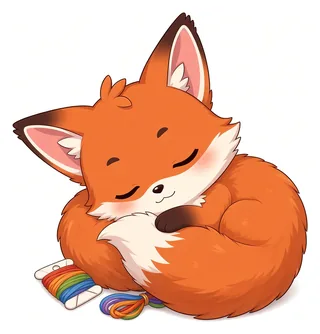
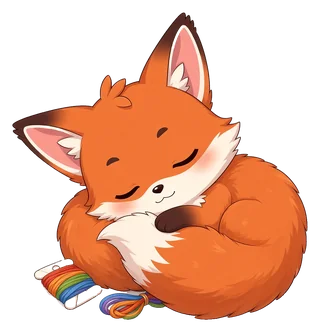
1.4 (dev): transparent Pip art (13 poses, WebP+PNG alpha, no JPG), no white tile; new poses thinking/pointing/peeking/neutral/greeting-alt with real triggers; tests
(cherry picked from commit 14b4f67aedf3b7e0f3267bbbafabe34fea3f8a5d)

diff --git a/index.html b/index.html
@@ -78,7 +78,7 @@ mark.badline{background:#FBE3DA;color:var(--ink);border-radius:4px;padding:0 4px
 /* Pip companion */
 .herogrid{display:grid;gap:var(--s3)}
 .pip{display:grid;grid-template-columns:84px minmax(0,1fr);grid-template-areas:"fig msg" "tog msg";grid-template-rows:118px 44px;column-gap:var(--s3);row-gap:0}
-.pipfig{grid-area:fig;width:84px;height:118px;background:#fff;border:1px solid var(--line);border-radius:var(--r-m,14px);display:flex;align-items:center;justify-content:center;overflow:hidden}
+.pipfig{grid-area:fig;width:84px;height:118px;background:transparent;border:1px solid transparent;border-radius:var(--r-m,14px);display:flex;align-items:center;justify-content:center;overflow:hidden}
 .piphi{all:unset;display:block;width:100%;height:100%;cursor:pointer;border-radius:inherit}.piphi:focus-visible{outline:3px solid var(--sage-ink);outline-offset:-3px}.pipbubble.quiet{visibility:hidden}
 .pipfig img{width:100%;height:100%;object-fit:contain;padding:4px;display:block}
 .pipbubble{grid-area:msg;align-self:center;position:relative;margin:0;background:#fff;color:var(--ink);border:1px solid var(--line);border-radius:16px;padding:9px 13px;font-size:.92rem;line-height:1.38}
@@ -178,7 +178,9 @@ code{font-family:var(--mono);font-size:.9em;background:var(--surface-2);border-r
 .tourcard .tstep{font-size:.8rem;font-weight:700;color:var(--sage-ink);margin:0 0 2px}.tourcard .row{grid-column:1/-1;margin:4px 0 0;flex-wrap:wrap;gap:8px}.tourcard .row button{min-height:44px}
 .tourcard.invite{margin:0 0 var(--s2);padding:10px 12px;gap:6px 10px}.tourcard.invite .tmsg{margin:0;font-weight:650}.tourcard.invite .row{margin:0;flex-wrap:nowrap;gap:6px}.tourcard.invite .row button{padding:0 12px;font-size:.9rem;white-space:nowrap}@media(max-width:360px){#tourInvite .row button{padding:0 8px;font-size:.8rem;min-width:0}#tourInvite .row .ghost{padding:0 4px}.tourcard.invite{grid-template-columns:40px minmax(0,1fr)}.tourcard.invite .tpip{width:40px;height:54px}}.pip.inviting{display:none!important}
 .tour-target{outline:3px solid #c8642f!important;outline-offset:3px;box-shadow:0 0 0 7px rgba(200,100,47,.16);border-radius:10px}
-.askpip .atopics{display:flex;flex-wrap:wrap;gap:8px;margin:8px 0}.askpip .atopics button{min-height:44px}.askpip .ahead{display:flex;gap:10px;align-items:flex-start}.askpip .ahead img{width:44px;height:60px;object-fit:contain;flex:none}.askpip h2{font-size:1.05rem;margin:0}.askpip h2::before{content:none}.askpip .aans{background:var(--sage-50,#EEF3EE);border-radius:12px;padding:8px 12px;margin:6px 0}.hintpref{display:inline-flex;gap:8px;align-items:center;min-height:44px}.hintpref input{width:20px;height:20px}
+.askpip .atopics{display:flex;flex-wrap:wrap;gap:8px;margin:8px 0}.askpip .atopics button{min-height:44px}.askpip .ahead{display:flex;gap:10px;align-items:flex-start}.askpip{position:relative}.askpip .ahead img{width:44px;height:60px;object-fit:contain;flex:none}.askpip .apeek{display:none}
+@media(max-width:879px){.askpip{padding-right:62px;overflow:hidden}.askpip .ahead.peek>picture{display:none}.askpip .apeek{display:block;position:absolute;right:0;top:10px;width:52px;height:72px;pointer-events:none}.askpip .apeek img{width:100%;height:100%;object-fit:contain;object-position:right center;display:block}.askpipbtn img{object-position:right center}}
+.tourcard .tpip.mirror{transform:scaleX(-1)}.rpip{width:40px;height:56px;object-fit:contain;float:left;margin:0 10px 4px 0}.askpip h2{font-size:1.05rem;margin:0}.askpip h2::before{content:none}.askpip .aans{background:var(--sage-50,#EEF3EE);border-radius:12px;padding:8px 12px;margin:6px 0}.hintpref{display:inline-flex;gap:8px;align-items:center;min-height:44px}.hintpref input{width:20px;height:20px}
 @media (max-width:420px){.askpipbtn{padding:0 10px 0 4px}.tourcard{grid-template-columns:44px minmax(0,1fr);padding:10px 12px}.tourcard .tpip{width:44px;height:60px}}
 .psum .headline{position:relative;font-size:1.25rem;font-weight:800;margin:0 0 var(--s2);display:flex;align-items:center;gap:var(--s2)}
 .psum[data-ready=true]{background:var(--ok-bg);border-color:var(--ok-line)}
@@ -239,7 +241,7 @@ code{font-family:var(--mono);font-size:.9em;background:var(--surface-2);border-r
 @media print{.tabs,#helpView{display:none!important}.psum{box-shadow:none;border:1px solid #000}.tcard,.scard{break-inside:avoid}}
 </style>
 </head><body><div class="devbanner" role="note" style="background:#3d5a45;color:#fff;text-align:center;font:600 .85rem/1.4 system-ui,sans-serif;padding:6px 10px">Preview build — not the live site. Projects saved here are kept apart from the live site. <a href="https://therealtenkoshi2020.github.io/floss-fox/" style="color:#fff">Go to the live site</a></div><div class="wrap">
-<header><svg class="logo" viewBox="0 0 64 64" role="img" aria-label="Floss Fox logo"><path d="M10 8l14 14h16L54 8l-2 26-20 24L12 34z" fill="#c8642f"/><path d="M14 13l9 10-7 6zM50 13l-9 10 7 6z" fill="#7a3a22"/><path d="M12 34l20 24 20-24-12 2-8 10-8-10z" fill="#fbf3e6"/><circle cx="24" cy="31" r="2.6" fill="#3b2f28"/><circle cx="40" cy="31" r="2.6" fill="#3b2f28"/><path d="M29 47h6l-3 4z" fill="#3b2f28"/><path d="M4 60c10-6 18-2 28-6s18 0 28-4" stroke="#5f7a5c" stroke-width="2.5" fill="none" stroke-linecap="round" stroke-dasharray="5 4"/></svg><div class="t"><p class="brand" id="appname"></p><p class="tagline">Thread lists for cross stitch</p></div><button type="button" class="askpipbtn noprint" id="askPipBtn" aria-expanded="false" aria-controls="askPip"><img src="assets/pip/pip-curious-160.jpg" width="160" height="215" alt="" decoding="async"> Ask Pip</button></header>
+<header><svg class="logo" viewBox="0 0 64 64" role="img" aria-label="Floss Fox logo"><path d="M10 8l14 14h16L54 8l-2 26-20 24L12 34z" fill="#c8642f"/><path d="M14 13l9 10-7 6zM50 13l-9 10 7 6z" fill="#7a3a22"/><path d="M12 34l20 24 20-24-12 2-8 10-8-10z" fill="#fbf3e6"/><circle cx="24" cy="31" r="2.6" fill="#3b2f28"/><circle cx="40" cy="31" r="2.6" fill="#3b2f28"/><path d="M29 47h6l-3 4z" fill="#3b2f28"/><path d="M4 60c10-6 18-2 28-6s18 0 28-4" stroke="#5f7a5c" stroke-width="2.5" fill="none" stroke-linecap="round" stroke-dasharray="5 4"/></svg><div class="t"><p class="brand" id="appname"></p><p class="tagline">Thread lists for cross stitch</p></div><button type="button" class="askpipbtn noprint" id="askPipBtn" aria-expanded="false" aria-controls="askPip"><picture><source media="(max-width:879px)" type="image/webp" srcset="assets/pip/pip-peeking-160.webp"><source media="(max-width:879px)" srcset="assets/pip/pip-peeking-160.png"><source type="image/webp" srcset="assets/pip/pip-curious-160.webp"><img src="assets/pip/pip-curious-160.png" width="160" height="214" alt="" decoding="async"></picture> Ask Pip</button></header>
 <nav class="tabs noprint" aria-label="Main"><button type="button" id="tabConvert" aria-pressed="true" aria-current="page"><span aria-hidden="true">🧵</span> Add colors</button><button type="button" id="tabProjects" aria-pressed="false"><span aria-hidden="true">📁</span> My projects <span id="projCount"></span></button><button type="button" id="tabHelp" aria-pressed="false"><span aria-hidden="true">💬</span> Help</button></nav>
 <section id="askPip" class="askpip noprint" hidden aria-labelledby="askPipH"></section>
 <div id="tourLive" class="sr" aria-live="polite"></div>
@@ -248,7 +250,7 @@ code{font-family:var(--mono);font-size:.9em;background:var(--surface-2);border-r
 <h1 id="heroH">Your thread list, made simple.</h1>
 <p class="lead">Paste your DMC colors, see what you need, and make a shopping list in seconds.</p>
 <ol class="steps" aria-label="How it works"><li><span class="num" aria-hidden="true">1</span> Add your colors</li><li><span class="num" aria-hidden="true">2</span> Check what you have</li><li><span class="num" aria-hidden="true">3</span> Get your shopping list</li></ol>
-<div class="herogrid"><aside id="pip" class="pip" aria-label="Pip, your helper"><div class="pipfig" id="pipFig"><button type="button" class="piphi" id="pipHi" aria-label="Say hi to Pip"><picture><source id="pipSrc" type="image/webp" srcset="assets/pip/pip-greeting-160.webp 160w, assets/pip/pip-greeting-320.webp 320w, assets/pip/pip-greeting-480.webp 480w" sizes="(min-width:880px) 170px, 84px"><img id="pipImg" data-art="greeting" src="assets/pip/pip-greeting-320.jpg" srcset="assets/pip/pip-greeting-160.jpg 160w, assets/pip/pip-greeting-320.jpg 320w, assets/pip/pip-greeting-480.jpg 480w" sizes="(min-width:880px) 170px, 84px" width="320" height="465" alt="" decoding="async"></picture></button></div><p class="pipbubble" id="pipMsg"></p><button class="piptog" id="pipToggle" type="button" aria-controls="pipFig pipMsg" aria-expanded="true">Hide Pip</button></aside><div class="heromain">
+<div class="herogrid"><aside id="pip" class="pip" aria-label="Pip, your helper"><div class="pipfig" id="pipFig"><button type="button" class="piphi" id="pipHi" aria-label="Say hi to Pip"><picture><source id="pipSrc" type="image/webp" srcset="assets/pip/pip-greeting-160.webp 160w, assets/pip/pip-greeting-320.webp 320w, assets/pip/pip-greeting-480.webp 480w" sizes="(min-width:880px) 170px, 84px"><img id="pipImg" data-art="greeting" src="assets/pip/pip-greeting-320.png" srcset="assets/pip/pip-greeting-160.png 160w, assets/pip/pip-greeting-320.png 320w, assets/pip/pip-greeting-480.png 480w" sizes="(min-width:880px) 170px, 84px" width="320" height="465" alt="" decoding="async"></picture></button></div><p class="pipbubble" id="pipMsg"></p><button class="piptog" id="pipToggle" type="button" aria-controls="pipFig pipMsg" aria-expanded="true">Hide Pip</button></aside><div class="heromain">
 <div id="exampleBanner" class="banner" role="status" hidden><span><b>You're trying an example.</b> These colors are a sample, not your thread. Nothing is saved unless you choose to.</span> <button type="button" class="sec small" id="exitExample">Back to my list</button></div>
 <label for="inp" class="biglabel">Paste your DMC color list</label>
 <textarea id="inp" placeholder="310, 321, 666, 823" aria-describedby="inpHint"></textarea>

diff --git a/pip.js b/pip.js
@@ -1,10 +1,13 @@
 /* Pip, the Floss Fox companion. Deterministic: reads the converter's existing parse result. No network, no AI. */
 (()=>{'use strict';
 const PIP_KEY='flossfox-dev.pip.v1'; // DEV PREVIEW ONLY           // stores only "shown"/"hidden"
+// Returning visitor = the tour was already completed or dismissed (tour.js pref). Read-only here.
+const returning=(()=>{try{const t=JSON.parse(localStorage.getItem(PIP_KEY.replace(/\.pip\.v1$/,'.tour.v1'))||'null');return !!t&&(t.status==='done'||t.status==='dismissed')}catch(e){return false}})();
 const SIZES=[160,320,480];
-// Poses that have real artwork. Poses without art fall back to an existing one; 'thinking' has no art and its state is never shown.
-const ART={greeting:'greeting',curious:'curious',puzzled:'puzzled',duplicates:'duplicates',helpful:'helpful',tangled:'tangled',celebrating:'celebrating',sleepy:'sleepy'};
-const FUTURE={thinking:'curious',proud:'greeting',peeking:'curious',teaching:'curious'};
+// Poses with real (transparent) artwork. 'thinking' is used only for real checks (Ask Pip answers, backup check); the 'processing' state stays unused (no fake delays).
+const ART={greeting:'greeting',curious:'curious',puzzled:'puzzled',duplicates:'duplicates',helpful:'helpful',tangled:'tangled',celebrating:'celebrating',sleepy:'sleepy',
+ thinking:'thinking',pointing:'pointing',peeking:'peeking',neutral:'neutral','greeting-alt':'greeting-alt'};
+const FUTURE={proud:'greeting',teaching:'curious'};
 const poseArt=p=>ART[p]||ART[FUTURE[p]]||'greeting';
 const short=t=>{t=String(t).replace(/\s+/g,' ').trim();return t.length>24?t.slice(0,23)+'…':t};
 function errMsg(r){if(r.errs.length>1)return`${r.errs.length} entries need a look. Check the highlighted lines below.`;const e=r.errs[0],x=short(e.t);
@@ -20,11 +23,13 @@ const TANGLE=["Oops! Got a little tangled up!","I meant to do that. Probably."];
    Base states come from the parse result; celebrating/tangled/sleepy are short overlays on top of a calm base. */
 const STATES={
  welcome:    {pose:'greeting',   pri:10, anim:'pop',   msg:()=>"Hi! I'm Pip. Let's get your threads sorted!"},
+ welcomeBack:{pose:'greeting-alt',pri:10,anim:'pop',   msg:()=>'Welcome back! Ready for another list?'},
+ idle:       {pose:'neutral',    pri:12, anim:'fade',  msg:()=>'Paste a list whenever you\'re ready.'},
  attentive:  {pose:'curious',    pri:20, anim:'tilt',  msg:()=>'Ready when you are!'},
  empty:      {pose:'curious',    pri:20, anim:'tilt',  msg:()=>'Add a few thread numbers to get started.'},
  listReady:  {pose:'curious',    pri:20, anim:'tilt',  msg:()=>"Your colors are ready! Let's see what you have."},
  helpful:    {pose:'helpful',    pri:25, anim:'pop',   msg:()=>{const a=alt();return a&&a.matched?`Look! I found ${a.brand} options for ${a.matched} of your ${plural(a.total,'color')}.`:''}},
- processing: {pose:'thinking',   pri:30, anim:'fade',  msg:()=>'Let me look at your list…'}, // reserved: no 'thinking' art and parsing is instant, so never shown
+ processing: {pose:'thinking',   pri:30, anim:'fade',  msg:()=>'Let me look at your list…'}, // reserved: parsing is instant, so never shown (no fake delays)
  celebrating:{pose:'celebrating',pri:35, anim:'cheer', msg:()=>'Yay! Your list is ready!'},
  duplicate:  {pose:'duplicates', pri:40, anim:'pop',   msg:r=>r.items.filter(i=>i.src.length>1).length===1?"Found a repeat! I've combined it for you.":"Found some repeats! I've combined them for you."},
  error:      {pose:'puzzled',    pri:50, anim:'tilt',  msg:errMsg},
@@ -35,27 +40,27 @@ const STATES={
  hintCompare:{pose:'helpful',    pri:22, anim:'pop',   msg:()=>{const n=window.FlossFoxAltFor?Math.max(FlossFoxAltFor('sullivans'),FlossFoxAltFor('anchor')):0;return n?'Want to compare another thread brand? Try "Brand to buy" in your shopping list.':''}}
 };
 const CALM=25; // overlays (tangled, sleepy) only sit on a base at or below this priority
-function stateFor(r,submitted){const c=['welcome'];
+function stateFor(r,submitted){const c=[greeted?'idle':returning?'welcomeBack':'welcome'];
  if(r.errs.length)c.push('error');if(r.items.some(i=>i.src.length>1))c.push('duplicate');
  if(r.items.length){c.push('listReady');const a=alt();if(a&&a.matched)c.push('helpful')}else if(submitted&&!r.errs.length)c.push('empty');
  return c.sort((a,b)=>STATES[b].pri-STATES[a].pri)[0]}
 const $=id=>document.getElementById(id);
 const el=$('pip');if(!el)return;
 const img=$('pipImg'),src=$('pipSrc'),msg=$('pipMsg'),fig=$('pipFig'),tog=$('pipToggle'),hi=$('pipHi');
-let touring=false,cur=null,base='welcome',lastR={items:[],errs:[]},over=null,overT=0,celebrated=false;
+let greeted=false,touring=false,cur=null,base='welcome',lastR={items:[],errs:[]},over=null,overT=0,celebrated=false;
 const T={celebrate:4000,tangle:2600,tangleGap:60000,idle:90000,minSleep:4000,throttle:1000};
 const set=(a,ext)=>SIZES.map(w=>`assets/pip/pip-${a}-${w}.${ext} ${w}w`).join(', ');
 function show(name,r,anim=true){const S=STATES[name];if(!S)return;if(r)lastR=r;const text=S.msg(lastR);
  if(cur===name&&msg.textContent===text)return; // nothing meaningful changed
  const a=poseArt(S.pose);cur=name;el.dataset.state=name;el.dataset.pose=a;
- if(img.dataset.art!==a){src.srcset=set(a,'webp');img.srcset=set(a,'jpg');img.src=`assets/pip/pip-${a}-320.jpg`;img.dataset.art=a}
+ if(img.dataset.art!==a){src.srcset=set(a,'webp');img.srcset=set(a,'png');img.src=`assets/pip/pip-${a}-320.png`;img.dataset.art=a}
  msg.textContent=text;msg.classList.toggle('quiet',!text);
  fig.classList.remove('pip-pop','pip-tilt','pip-fade','pip-cheer','pip-wiggle','pip-doze');if(anim){void fig.offsetWidth;fig.classList.add('pip-'+S.anim)}}
 const clearOver=()=>{clearTimeout(overT);over=null};
 function overlay(name,ms){clearOver();over=name;show(name);if(ms)overT=setTimeout(()=>{over=null;show(base,null,false)},ms)} // settle quietly: no new animation
 const quiet=()=>fig.hidden||document.hidden;
 // Called by the converter on every recalculation.
-function result(r,submitted){lastR=r;base=stateFor(r,submitted);
+function result(r,submitted){greeted=true;lastR=r;base=stateFor(r,submitted);
  if(STATES[base].pri>STATES.celebrating.pri)clearOver();          // errors/duplicates interrupt anything
  else if(over==='sleepy'||over==='tangled'||(over&&over.startsWith('hint')))clearOver();            // real input ends play and sleep
  const ex=typeof window.isExample==='function'&&window.isExample();
@@ -76,7 +81,7 @@ function arm(){clearTimeout(idleT);if(document.hidden||over==='sleepy')return;id
 function sleep(){if(touring||quiet()||over||STATES[base].pri>CALM)return arm();sleptAt=performance.now();overlay('sleepy',0)}
 function wake(){if(over!=='sleepy')return;const left=T.minSleep-(performance.now()-sleptAt);
  if(left>0){clearTimeout(overT);overT=setTimeout(wake,left);return}
- clearOver();show(base==='welcome'?'attentive':base,null,false);fig.classList.add('pip-fade');arm()}
+ clearOver();show(['welcome','welcomeBack','idle'].includes(base)?'attentive':base,null,false);fig.classList.add('pip-fade');arm()}
 function activity(){const now=performance.now();if(over==='sleepy')return wake();if(now-lastAct<T.throttle)return;lastAct=now;arm()}
 ['pointerdown','pointermove','keydown','scroll','wheel','touchstart'].forEach(e=>window.addEventListener(e,activity,{passive:true,capture:true}));
 document.addEventListener('visibilitychange',()=>{if(document.hidden)clearTimeout(idleT);else arm()});
@@ -95,11 +100,13 @@ const api={result,show,stateFor,STATES,ART,FUTURE,current:()=>cur,base:()=>base,
  hint:n=>{const S=STATES[n];if(!S||touring||over||quiet()||STATES[base].pri>CALM||!S.msg(lastR))return false;overlay(n,9000);arm();return true},
  _timing:o=>{Object.assign(T,o);arm();return{...T}}};
 /* global state */
-if(typeof state!=='undefined'&&(state.items.length||state.errs.length)){lastR=state;base=stateFor(state,true);show(base,state)}else show('welcome');
-const warm=()=>{const w=img.currentSrc&&/-(\d+)\.(webp|jpg)/.exec(img.currentSrc);const size=w?w[1]:'320',ext=w?w[2]:'webp';
- Object.values(ART).forEach(a=>{if(a!=='greeting'){const i=new Image();i.decoding='async';i.src=`assets/pip/pip-${a}-${size}.${ext}`}})};
+if(typeof state!=='undefined'&&(state.items.length||state.errs.length)){lastR=state;base=stateFor(state,true);show(base,state)}else{base=stateFor({items:[],errs:[]},false);show(base)}
+const warm=()=>{const w=img.currentSrc&&/-(\d+)\.(webp|png)/.exec(img.currentSrc);const size=w?w[1]:'320',ext=w?w[2]:'webp';
+ Object.values(ART).forEach(a=>{if(a!=='greeting'&&!['peeking','pointing','thinking'].includes(a)){const i=new Image();i.decoding='async';i.src=`assets/pip/pip-${a}-${size}.${ext}`}})};
 window.addEventListener('load',()=>(window.requestIdleCallback||setTimeout)(warm,{timeout:3000}));
-const inp=$('inp');inp.addEventListener('focus',()=>{if(cur==='welcome'&&!inp.value.trim())show('attentive')});
+const inp=$('inp');inp.addEventListener('focus',()=>{if(['welcome','welcomeBack','idle'].includes(cur)&&!inp.value.trim())show('attentive')});
+// Leaving an empty box: settle to the calm idle companion (curious stays for focus/exploring).
+inp.addEventListener('blur',()=>{if(cur==='attentive'&&!inp.value.trim()&&!over){greeted=true;base='idle';show('idle')}});
 arm();
 window.FlossFoxPip=api;
 })();

diff --git a/tour.js b/tour.js
@@ -15,7 +15,7 @@ const st=()=>(typeof state!=='undefined'?state:{items:[],errs:[]}); /* global st
 const dupN=()=>st().items.filter(i=>i.src.length>1).length;
 const destV=()=>($('dest')||{}).value||'dmc';
 const BR={dmc:'DMC',sullivans:'Sullivans',anchor:'Anchor'};
-const pipImg=(pose,cls)=>`<picture><source type="image/webp" srcset="assets/pip/pip-${pose}-160.webp"><img class="${cls}" src="assets/pip/pip-${pose}-160.jpg" width="160" height="215" alt="" decoding="async"></picture>`;
+const pipImg=(pose,cls)=>`<picture><source type="image/webp" srcset="assets/pip/pip-${pose}-160.webp"><img class="${cls}" src="assets/pip/pip-${pose}-160.png" width="160" height="240" alt="" decoding="async"></picture>`;
 const plural=(n,w)=>`${n} ${w}${n===1?'':'s'}`;
 const TOUR_SAMPLE='310\n321\n666\n699';
 const linksOn=()=>!!(window.FlossFoxLinks&&FlossFoxLinks.enabled&&FlossFoxLinks.enabled());
@@ -25,7 +25,7 @@ const toConvert=()=>{if(!inView('convertView'))$('tabConvert').click()};
 /* ---------- Step configuration (single source of truth) ---------- */
 const STEPS=[
  {id:'enter',title:'Add your colors',target:()=>$('inp'),anchor:()=>document.querySelector('.hero .row'),
-  pose:()=>st().errs.length?'puzzled':'curious',
+  pose:()=>st().errs.length?'puzzled':'pointing',
   msg:()=>"First, pop your DMC thread numbers in here! You can type them or paste your whole list.",
   more:()=>st().errs.length?`${plural(st().errs.length,'line')} couldn't be read yet. They're listed in red under Your colors.`:st().items.length?`You've added ${plural(st().items.length,'color')}. Tap Next when you're ready.`:"Then tap Add my colors. Want to practise first? I can fill in a short sample list.",
   extra:()=>st().items.length?'':`<button type="button" class="sec" data-t="example">Try an example (310, 321, 666, 699)</button>`,
@@ -42,13 +42,13 @@ const STEPS=[
   ready:()=>!$('results').hidden,
   help:'Swatches show the DMC color on screen, which is only an approximation.'},
  {id:'brands',title:'Other thread brands',target:()=>$('shopcard').hidden?null:$('dest'),anchor:()=>document.querySelector('#shopcard .toggle'),
-  pose:()=>'helpful',
+  pose:()=>'pointing',
   msg:()=>"Did you know you can look at other thread brands too? Let's explore your options!",
   more:()=>`Use <b>Brand to buy</b> to switch between DMC, Sullivans and Anchor. Matches come from published conversion charts, so colors may not be exact. Compare real thread if it matters. The cost table shows rough price estimates for each brand, before shipping; prices change, so check the store.${destV()!=='dmc'?` You're looking at ${BR[destV()]} now: ${plural(window.FlossFoxAltFor?FlossFoxAltFor(destV()):0,'color')} of ${st().items.length} have a chart match.`:''}`,
   ready:()=>!$('shopcard').hidden,optional:true,
   help:'Metallic and variegated threads are never swapped automatically.'},
  {id:'shop',title:'Your shopping list',target:()=>$('shopcard').hidden?null:$('shop'),anchor:()=>$('shop'),
-  pose:()=>'helpful',
+  pose:()=>'pointing',
   msg:()=>"Now let's get your threads organized so they're easier to shop for!",
   more:()=>`Tick the boxes as you shop, or use <b>Print list</b> and <b>Copy as text</b> below. <b>Save project</b> keeps the list in this browser; in My projects you can mark what you have, open <b>Shop my list</b> in the store, and download a spreadsheet (CSV).${linksOn()?' Store links are optional affiliate links. You never need them to use Floss Fox.':''}`,
   ready:()=>!$('shopcard').hidden,
@@ -61,6 +61,9 @@ const STEPS=[
 ];
 
 /* ---------- Tour card ---------- */
+// Pointing Pip: his paw points to his left (screen right). Mirror him when the target's centre is to his left on screen.
+function aim(){if(!card||!tgt)return;const i=card.querySelector('.tpip');if(!i||card.dataset.pose!=='pointing')return;const a=i.getBoundingClientRect(),b=tgt.getBoundingClientRect();
+ const mir=(b.left+b.right)/2<(a.left+a.right)/2;i.classList.toggle('mirror',mir);card.dataset.mirror=mir}
 let idx=-1,card=null,tgt=null,returnFocus=null,readSince=0;
 const live=t=>{const l=$('tourLive');if(l){l.textContent='';setTimeout(()=>{l.textContent=t},30)}};
 function clearTarget(){if(tgt)tgt.classList.remove('tour-target');tgt=null}
@@ -71,12 +74,12 @@ function place(el,anchor,focus){const a=anchor&&anchor.isConnected&&anchor.offse
 function render(focus){const S=STEPS[idx];if(!S)return;toConvert();removeCard();
  const t=S.target();const missing=!t&&!S.final;const notReady=S.ready&&!S.ready();
  if(t){t.classList.add('tour-target');tgt=t}
- const c=document.createElement('section');c.className='tourcard noprint';c.id='tourCard';c.setAttribute('aria-labelledby','tourH');c.dataset.step=S.id;c.dataset.pose=S.pose();
+ const c=document.createElement('section');c.className='tourcard noprint';c.id='tourCard';c.setAttribute('aria-labelledby','tourH');c.dataset.step=S.id;let pose=S.pose();if(pose==='pointing'&&!t)pose='helpful';c.dataset.pose=pose;
  const back=idx>0?'<button type="button" class="ghost" data-t="back">Back</button>':'';
  const nextLbl=S.final?'':notReady||missing?(S.optional?'Skip this step':'Skip this step'):'Next';
  const btns=S.final?'<button type="button" class="pri" data-t="start">Start using Floss Fox</button><button type="button" class="sec" data-t="tips">Explore more tips</button>':`${S.extra?S.extra():''}<button type="button" class="pri" data-t="next">${nextLbl}</button>${back}<button type="button" class="ghost" data-t="skip">Skip tour</button>`;
- c.innerHTML=`${pipImg(S.pose(),'tpip')}<div><p class="tstep">Step ${idx+1} of ${STEPS.length}</p><h2 id="tourH" tabindex="-1">${esc(S.title)}</h2><p class="tmsg">${esc(S.msg())}</p><p class="tmore">${S.more()}</p>${missing&&!notReady?'<p class="tmore">I can\'t find that part of the page right now, so you can skip ahead.</p>':''}</div><div class="row">${btns}${S.final?back:''}<button type="button" class="ghost" data-t="close" aria-label="Close the tour">Close</button></div>`;
- card=c;place(c,t?S.anchor():null,focus);readSince=performance.now();
+ c.innerHTML=`${pipImg(pose,'tpip')}<div><p class="tstep">Step ${idx+1} of ${STEPS.length}</p><h2 id="tourH" tabindex="-1">${esc(S.title)}</h2><p class="tmsg">${esc(S.msg())}</p><p class="tmore">${S.more()}</p>${missing&&!notReady?'<p class="tmore">I can\'t find that part of the page right now, so you can skip ahead.</p>':''}</div><div class="row">${btns}${S.final?back:''}<button type="button" class="ghost" data-t="close" aria-label="Close the tour">Close</button></div>`;
+ card=c;place(c,t?S.anchor():null,focus);aim();readSince=performance.now();
  setTourPref({status:'active',step:idx});if(PIP())PIP().setTour(true)}
 function go(i,announce=true){idx=Math.max(0,Math.min(STEPS.length-1,i));render(true);if(announce)live(`Pip's tour, step ${idx+1} of ${STEPS.length}: ${STEPS[idx].title}`)}
 function start(){closeAsk(false);removeInvite();returnFocus=document.activeElement&&document.activeElement!==document.body?document.activeElement:$('askPipBtn');toConvert();go(0)}
@@ -92,7 +95,7 @@ document.addEventListener('keydown',e=>{if(e.key!=='Escape')return;if($('askPip'
 document.addEventListener('flossfox:result',e=>{if(idx<0)return;const S=STEPS[idx];
  if(S.id==='enter'&&S.done()&&e.detail.submitted&&!st().errs.length){go(1);return}
  const f=card&&card.contains(document.activeElement)?document.activeElement.dataset.t:null;render(false);if(f){const b=card.querySelector(`[data-t="${f}"]`);if(b)b.focus()}});
-window.addEventListener('resize',()=>{if(card&&tgt&&!tgt.isConnected)render(false)});
+window.addEventListener('resize',()=>{if(card&&tgt&&!tgt.isConnected)render(false);else aim()});
 
 /* ---------- First-visit invite / resume ---------- */
 let invite=null;
@@ -124,7 +127,7 @@ const TOPICS=[
  ['tour','Start the tour again','']];
 let lastTopic=null;
 function renderAsk(){const c=context();const a=TOPICS.find(t=>t[0]===lastTopic);
- ask.innerHTML=`<div class="ahead">${pipImg('helpful','')}<div><h2 id="askPipH" tabindex="-1">Ask Pip</h2><p class="actx" data-ctx="${c.key}">${esc(c.text)}</p></div></div>
+ ask.innerHTML=`${a?'':`<span class="apeek" aria-hidden="true">${pipImg('peeking','')}</span>`}<div class="ahead${a?'':' peek'}" data-pose="${a?'thinking':'helpful'}">${pipImg(a?'thinking':'helpful','')}<div><h2 id="askPipH" tabindex="-1">Ask Pip</h2><p class="actx" data-ctx="${c.key}">${esc(c.text)}</p></div></div>
  ${idx>=0?'<div class="row"><button type="button" class="pri" data-a="resume">Back to the tour</button></div>':''}
  <div class="atopics" role="group" aria-label="Help topics">${TOPICS.map(t=>`<button type="button" class="sec" data-a="${t[0]}"${t[0]===lastTopic?' aria-pressed="true"':''}>${esc(t[1])}</button>`).join('')}</div>
  ${a?`<div class="aans" id="askAns" tabindex="-1"><b>${esc(a[1])}</b><p>${esc(a[2])}</p></div>`:''}

diff --git a/projects.js b/projects.js
@@ -78,7 +78,7 @@ function plan(p){const dest=p.buyBrand,threads=[];
  return{dest,threads,lines,review:by(['review']),have:by(['have','received']),sum,ready:sum.total>0&&sum.sufficient===sum.total}}
 // Pip celebrates once per real not-ready -> ready transition (pose only, no bubble: the headline right beside it already says it).
 const CEL=()=>{setTimeout(()=>{const f=document.getElementById('pCel');if(f){f.classList.remove('pip-cheer')}},4000);
- return`<span class="pcel pipfig pip-cheer" id="pCel" aria-hidden="true"><picture><source type="image/webp" srcset="assets/pip/pip-celebrating-160.webp 160w, assets/pip/pip-celebrating-320.webp 320w" sizes="64px"><img src="assets/pip/pip-celebrating-160.jpg" width="160" height="243" alt=""></picture></span>`};
+ return`<span class="pcel pipfig pip-cheer" id="pCel" aria-hidden="true"><picture><source type="image/webp" srcset="assets/pip/pip-celebrating-160.webp 160w, assets/pip/pip-celebrating-320.webp 320w" sizes="64px"><img src="assets/pip/pip-celebrating-160.png" width="160" height="243" alt=""></picture></span>`};
 const FL=()=>window.FlossFoxLinks||{buyLinks:()=>'',retailersFor:()=>[]};
 const DISC=()=>`<p class="affdisc noprint"><b>Affiliate links:</b> Floss Fox may earn a small commission at no extra cost to you. <a href="about.html#affiliates">More info</a>${window.FLOSS_FOX_TEST_LINKS?' (Preview: test links, not tracked.)':''}</p>`;
 const plural=(n,w,ws)=>`${n} ${n===1?w:(ws||w+'s')}`;
@@ -273,11 +273,13 @@ function csv(p){const P=plan(p),q=v=>{v=v===null||v===undefined?'':String(v);if(
   rows.push([p.name,lab(it.code),DMC[it.code].name,it.qty===null?'UNKNOWN':it.qty,(a=>a===0?'yes':a>=it.qty?'assumed':'partly assumed')(asmOf(it)),d.status||'not checked',d.owned===null?'':d.owned,BRAND[P.dest],r.ok?disp(P.dest,r.to):'',r.ok?r.prov:'',line?t.rem+(line.from.length>1?` (shared line total ${line.q})`:''):'',line?(line.bought?'yes':'no'):'',t.recv||'',SN[t.state],t.why,it.qty===null?'':asmOf(it)])});
  return rows.map(r=>r.map(q).join(',')).join('\r\n')+'\r\n'}
 function backup(){const d={app:'floss-fox',schema:SCHEMA,exported:nowISO(),projects:store.projects};download(JSON.stringify(d,null,2),'floss-fox-backup-'+nowISO().slice(0,10)+'.json','application/json');pstatus(`Backup downloaded with ${store.projects.length} project(s). Keep the file somewhere safe.`)}
+const RPIP=p=>`<picture><source type="image/webp" srcset="assets/pip/pip-${p}-160.webp"><img class="rpip" data-pose="${p}" src="assets/pip/pip-${p}-160.png" width="160" height="240" alt=""></picture>`;
 function restoreFile(file){const R=$('restorePanel');if(!file)return;$('backupBox').open=true;if(file.size>5e6){R.hidden=false;R.innerHTML='<b class="warn">That file is too large to be a Floss Fox backup.</b>';return}
+ R.hidden=false;R.innerHTML=RPIP('thinking')+'<p>Let me check this backup…</p>'; // shown only while the file is really being read and checked
  file.text().then(t=>{let d;try{d=JSON.parse(t)}catch(e){d=null}const m=d&&d.app==='floss-fox'?migrate(d):null;
-  if(!m||m.tooNew){pendingRestore=null;R.hidden=false;R.innerHTML=`<b class="warn">${m&&m.tooNew?'This backup was made by a newer version of Floss Fox and can\'t be restored here.':'This file isn\'t a valid Floss Fox backup. Nothing was changed.'}</b>`;pstatus('Restore failed: nothing changed.');return}
+  if(!m||m.tooNew){pendingRestore=null;R.hidden=false;R.innerHTML=RPIP('puzzled')+`<b class="warn">${m&&m.tooNew?'This backup was made by a newer version of Floss Fox and can\'t be restored here.':'This file isn\'t a valid Floss Fox backup. Nothing was changed.'}</b>`;pstatus('Restore failed: nothing changed.');return}
   pendingRestore=m.data.projects;const clash=pendingRestore.filter(p=>proj(p.id)).length;R.hidden=false;
-  R.innerHTML=`<p><b>Backup contains ${pendingRestore.length} project(s)</b>${m.skipped?`; ${m.skipped} damaged or duplicate entr${m.skipped>1?'ies were':'y was'} skipped`:''}. ${clash?`${clash} already exist here (same project).`:'None of them already exist here.'}</p>
+  R.innerHTML=RPIP('thinking')+`<p><b>I checked it. Backup contains ${pendingRestore.length} project(s)</b>${m.skipped?`; ${m.skipped} damaged or duplicate entr${m.skipped>1?'ies were':'y was'} skipped`:''}. ${clash?`${clash} already exist here (same project).`:'None of them already exist here.'}</p>
   ${clash?`<fieldset><legend>For projects that already exist:</legend><label><input type="radio" name="rmode" value="replace" checked> Replace mine with the backup version</label><br><label><input type="radio" name="rmode" value="skip"> Keep mine, skip those</label><br><label><input type="radio" name="rmode" value="copy"> Keep both (import as a renamed copy)</label></fieldset>`:''}
   <div class="row"><button type="button" class="pri" id="rGo">Restore</button><button type="button" class="sec" id="rCancel">Cancel</button></div>`;
   $('rCancel').onclick=()=>{pendingRestore=null;R.hidden=true;pstatus('Restore cancelled.')};

diff --git a/tests/regression.py b/tests/regression.py
@@ -338,16 +338,17 @@ with sync_playwright() as p:
     PK = os.environ.get('FF_PIP_KEY', 'flossfox.pip.v1')
     pp = page(412, True); reqs = []; pp.on('request', lambda r: reqs.append(r.url)); pp.goto(B); pp.wait_for_load_state('networkidle')
     pst = lambda g: g.evaluate("[FlossFoxPip.current(), document.getElementById('pip').dataset.pose, document.getElementById('pipMsg').textContent]")
-    ok('P1 Pip appears on load with welcome (greeting)', pp.locator('#pip').is_visible() and pst(pp) == ['welcome', 'greeting', "Hi! I'm Pip. Let's get your threads sorted!"], pst(pp))
+    ok('P1 Pip appears on load; returning visitor gets welcome back (greeting-alt)', pp.locator('#pip').is_visible() and pst(pp) == ['welcomeBack', 'greeting-alt', 'Welcome back! Ready for another list?'], pst(pp))
     ok('P1b image loaded and decorative (alt=""), bubble not a live region', pp.evaluate("document.getElementById('pipImg').naturalWidth") > 0 and pp.get_attribute('#pipImg', 'alt') == '' and pp.get_attribute('#pipMsg', 'aria-live') is None)
     from urllib.parse import urlparse
     bad = []
-    for a in ['greeting', 'curious', 'puzzled', 'duplicates', 'helpful', 'tangled', 'celebrating', 'sleepy']:
+    POSES = ['greeting', 'curious', 'puzzled', 'duplicates', 'helpful', 'tangled', 'celebrating', 'sleepy', 'thinking', 'pointing', 'peeking', 'neutral', 'greeting-alt']
+    for a in POSES:
         for w in [160, 320, 480]:
-            for ext in ['webp', 'jpg']:
+            for ext in ['webp', 'png']:
                 r = pp.request.get(B + f'assets/pip/pip-{a}-{w}.{ext}')
                 if r.status != 200 or len(r.body()) > 60000: bad.append((a, w, ext, r.status, len(r.body())))
-    ok('P2 all 48 Pip files (8 poses) load and are small (<60 KB)', not bad, bad)
+    ok('P2 all 78 Pip files (13 poses, WebP + PNG) load and are small (<60 KB)', not bad, bad)
     pp.wait_for_timeout(800)
     ok('P2b no requests outside the site origin', all(urlparse(u).netloc == urlparse(B).netloc for u in reqs if u.startswith('http')), [u for u in reqs if urlparse(u).netloc != urlparse(B).netloc][:5])
     def sub(g, t): g.fill('#inp', t); g.click('#go'); return pst(g)
@@ -358,7 +359,7 @@ with sync_playwright() as p:
     s3c = sub(pp, '310, 321, 415'); ok('P3c3 later clean lists do not celebrate again', s3c[0] == 'listReady', s3c)
     s4 = sub(pp, '310\n310\nzzz'); ok('P3d priority: error beats duplicate', s4[0] == 'error', s4)
     s5 = sub(pp, '   '); ok('P3e empty submit -> curious guidance', s5[:2] == ['empty', 'curious'], s5)
-    pp.click('#clear'); ok('P3f clear -> welcome', pst(pp)[0] == 'welcome')
+    pp.click('#clear'); ok('P3f clear -> calm idle (neutral)', pst(pp)[:2] == ['idle', 'neutral'], pst(pp))
     pp.click('#tabHelp'); pp.click('#tabConvert'); pp.locator('#inp').focus(); ok('P3g focusing the empty box -> attentive (curious)', pst(pp)[:2] == ['attentive', 'curious'], pst(pp))
     pp.click('#sample'); ok('P3h example list uses the same rules (duplicate/listReady)', pst(pp)[0] in ('duplicate', 'listReady', 'error'), pst(pp))
     sub(pp, '310, 321'); before = pst(pp)
@@ -400,7 +401,7 @@ with sync_playwright() as p:
     # all 8 states load the right art
     loaded = q.evaluate("""async()=>{const out={};for(const n of ['welcome','listReady','error','duplicate','helpful','tangled','celebrating','sleepy']){FlossFoxPip.show(n,{items:[{src:['a','a']}],errs:[{t:'x',kind:'code'}]});const i=document.getElementById('pipImg');await new Promise(r=>{if(i.complete&&i.naturalWidth)r();else{i.onload=r;i.onerror=r}});out[n]=[document.getElementById('pip').dataset.pose,i.naturalWidth>0,/pip-([a-z]+)-/.exec(i.currentSrc)[1]]}return out}""")
     ok('Q1 all 8 poses load their own artwork', all(v[1] and v[0] == v[2] for v in loaded.values()) and {v[0] for v in loaded.values()} == {'greeting', 'curious', 'puzzled', 'duplicates', 'helpful', 'tangled', 'celebrating', 'sleepy'}, loaded)
-    ok('Q1b no "thinking" art and its state is never used', q.evaluate("!('thinking' in FlossFoxPip.ART) && FlossFoxPip.STATES.processing.pose==='thinking'"))
+    ok('Q1b fake "processing" state still never shown (thinking only for real checks)', q.evaluate("FlossFoxPip.STATES.processing.pose==='thinking'"))
     old = q.evaluate("['welcome','attentive','empty','listReady','duplicate','error'].map(n=>[n,FlossFoxPip.STATES[n].pose])")
     ok('Q1c old states keep their poses', old == [['welcome', 'greeting'], ['attentive', 'curious'], ['empty', 'curious'], ['listReady', 'curious'], ['duplicate', 'duplicates'], ['error', 'puzzled']], old)
     q.goto(B); q.fill('#inp', '310, 321'); q.click('#go'); q.wait_for_timeout(4300)
@@ -585,7 +586,7 @@ with sync_playwright() as p:
     ok('T2 start: step 1 of 5, heading focused, real input highlighted', step(g) == 0 and 'Step 1 of 5' in g.inner_text('#tourCard') and g.evaluate("document.activeElement.id") == 'tourH' and g.evaluate("document.getElementById('inp').classList.contains('tour-target')") and g.locator('#tourInvite').count() == 0)
     g.wait_for_timeout(120); ok('T2b step change announced politely', 'step 1 of 5' in g.inner_text('#tourLive') and g.get_attribute('#tourLive', 'aria-live') == 'polite')
     ok('T2c S1 words and example offer', 'First, pop your DMC thread numbers in here! You can type them or paste your whole list.' in g.inner_text('#tourCard') and g.locator('#tourCard [data-t=example]').count() == 1 and g.input_value('#inp') == '')
-    ok('T15 S1 pose curious (right image)', cpose(g) == ['curious', 'curious'], cpose(g))
+    ok('T15 S1 pose pointing at the real input (right image, not mirrored)', cpose(g) == ['pointing', 'pointing'] and g.get_attribute('#tourCard', 'data-mirror') == 'false', cpose(g))
     ok('T2d the highlighted input stays usable', (g.fill('#inp', '310 x2\n321') or True) and g.input_value('#inp') == '310 x2\n321')
     g.click('#go'); g.wait_for_timeout(100)
     ok('T6 real list advances to step 2, card inside results', step(g) == 1 and g.evaluate("!!document.querySelector('#results #tourCard')") and "Here's what I found!" in g.inner_text('#tourCard') and 'recognized 2 colors' in g.inner_text('#tourCard'), g.inner_text('#tourCard'))
@@ -685,6 +686,57 @@ with sync_playwright() as p:
     ok('T13 reduced motion: no animation in the tour, Pip still', rmt.evaluate("document.getElementById('tourCard').getAnimations({subtree:true}).length") == 0 and rmt.evaluate("getComputedStyle(document.getElementById('pipImg')).animationName") == 'none')
     allrq = g.rq + d.rq + e.rq + v.rq + a.rq + h.rq
     ok('T22 tour + Ask Pip make no outside requests', all(_up(u).netloc == _up(B).netloc for u in allrq if u.startswith('http')), [u for u in allrq if _up(u).netloc != _up(B).netloc][:5])
+    # ---------- Milestone 1.4: transparent art + 5 new poses ----------
+    import io
+    from PIL import Image as _Im
+    noalpha = []
+    for a in POSES:
+        for w in [160, 320, 480]:
+            for ext in ['webp', 'png']:
+                r = pp.request.get(B + f'assets/pip/pip-{a}-{w}.{ext}'); im = _Im.open(io.BytesIO(r.body()))
+                has = im.mode in ('RGBA', 'LA') or (im.mode == 'P' and 'transparency' in im.info)
+                corner = im.convert('RGBA').getpixel((0, 0))[3] if has else 255
+                if r.status != 200 or not has or corner != 0 or im.width != w: noalpha.append((a, w, ext, im.mode, corner))
+    ok('M1 all 78 Pip images load, have an alpha channel and transparent corners', not noalpha, noalpha)
+    ok('M1b no JPG Pip assets referenced anywhere', pp.request.get(B + 'assets/pip/pip-greeting-320.jpg').status == 404 and '.jpg' not in pp.evaluate("document.getElementById('pipImg').srcset+document.getElementById('pipImg').src"))
+    tile = pp.evaluate("(()=>{const f=getComputedStyle(document.getElementById('pipFig'));const r=document.getElementById('pipFig').getBoundingClientRect();return [f.backgroundColor,f.borderTopColor,Math.round(r.width),Math.round(r.height)]})()")
+    ok('M2 no white tile: frame transparent, same 84x118 frame on phones', tile[0] in ('rgba(0, 0, 0, 0)', 'transparent') and tile[1] in ('rgba(0, 0, 0, 0)', 'transparent') and tile[2:] == [84, 118], tile)
+    pdm = page(1280); pdm.goto(B); fr = pdm.evaluate("(()=>{const r=document.getElementById('pipFig').getBoundingClientRect();return [Math.round(r.width),Math.round(r.height)]})()")
+    ok('M2b same 140x196 frame on desktop', fr == [140, 196], fr)
+    fv = tp(1280); ok('M3 first visit keeps the original greeting', fv.evaluate("[FlossFoxPip.current(),document.getElementById('pip').dataset.pose]") == ['welcome', 'greeting'])
+    rv = tp(412, fresh=False); ok('M4 returning visitor (tour done/dismissed): welcome back with greeting-alt', rv.evaluate("[FlossFoxPip.current(),document.getElementById('pip').dataset.pose]") == ['welcomeBack', 'greeting-alt'])
+    rv.click('#inp'); f1 = rv.evaluate("FlossFoxPip.current()"); rv.click('#heroH'); f2 = rv.evaluate("[FlossFoxPip.current(),document.getElementById('pip').dataset.pose]")
+    ok('M5 focus -> curious (attentive); leaving the empty box -> calm neutral idle', f1 == 'attentive' and f2 == ['idle', 'neutral'], (f1, f2))
+    rv.fill('#inp', '310'); rv.click('#go'); ok('M5b a real list still wins over idle', rv.evaluate("FlossFoxPip.current()") in ('listReady', 'celebrating'))
+    rv.click('#askPipBtn'); pk = rv.evaluate("""(()=>{const p=document.getElementById('askPip').getBoundingClientRect(),i=document.querySelector('#askPip .apeek img');if(!i||!i.offsetParent)return null;const r=i.getBoundingClientRect();
+      const hit=[...document.querySelectorAll('#askPip button,#askPip input,#askPip label')].filter(b=>{const q=b.getBoundingClientRect();return !(q.right<=r.left||q.left>=r.right||q.bottom<=r.top||q.top>=r.bottom)}).length;return [Math.round(p.right-r.right),hit,/pip-peeking-160/.test(i.currentSrc)]})()""")
+    ok('M6 phone Ask Pip: peeking Pip pinned flush right, covers no control', pk is not None and 0 <= pk[0] <= 1 and pk[1] == 0 and pk[2], pk)
+    ok('M6b compact Ask Pip button uses peeking on phones', 'pip-peeking-160' in rv.evaluate("document.querySelector('#askPipBtn img').currentSrc"))
+    rv.click('#askPip [data-a=enter]'); rv.wait_for_timeout(400); th = rv.evaluate("[document.querySelector('#askPip .ahead').dataset.pose,/pip-thinking-160/.test(document.querySelector('#askPip .ahead img').currentSrc||document.querySelector('#askPip .ahead img').src),!!document.querySelector('#askPip .apeek')]")
+    ok('M7 Ask Pip answer -> thinking (a real "let me check" moment), no double Pip', th == ['thinking', True, False], th)
+    ok('M7b desktop Ask Pip: no peeking, helpful header', (pdm.click('#askPipBtn') or True) and not pdm.locator('#askPip .apeek img').is_visible() and pdm.evaluate("document.querySelector('#askPip .ahead').dataset.pose") == 'helpful')
+    bk = tp(412, fresh=False); bk.click('#tabProjects'); bk.click('#backupBox summary')
+    bk.set_input_files('#restoreFile', {'name': 'b.json', 'mimeType': 'application/json', 'buffer': open(FIX, 'rb').read()}); bk.wait_for_timeout(300)
+    ok('M8 restoring a backup: thinking Pip with the real check result', bk.get_attribute('#restorePanel .rpip', 'data-pose') == 'thinking' and 'I checked it' in bk.inner_text('#restorePanel'))
+    bk.set_input_files('#restoreFile', {'name': 'x.json', 'mimeType': 'application/json', 'buffer': b'not json'}); bk.wait_for_timeout(300)
+    ok('M8b invalid backup -> puzzled, nothing changed', bk.get_attribute('#restorePanel .rpip', 'data-pose') == 'puzzled' and 'Nothing was changed' in bk.inner_text('#restorePanel'))
+    pt = tp(412); pt.click('#tourYes'); poses = []
+    def tinfo(g): return g.evaluate("""(()=>{const c=document.getElementById('tourCard'),i=c.querySelector('.tpip'),t=document.querySelector('.tour-target');const a=i.getBoundingClientRect();let ov=false,dir=null;
+      if(t){const b=t.getBoundingClientRect();ov=!(a.right<=b.left||a.left>=b.right||a.bottom<=b.top||a.top>=b.bottom);dir=(b.left+b.right)/2<(a.left+a.right)/2}return [c.dataset.pose,c.dataset.mirror||null,ov,dir,i.classList.contains('mirror')]})()""")
+    poses.append(tinfo(pt)); addlist(pt, '310 x2\n321'); poses.append(tinfo(pt)); nxt(pt); poses.append(tinfo(pt)); nxt(pt); poses.append(tinfo(pt)); nxt(pt); poses.append(tinfo(pt))
+    ok('M9 tour: pointing on the control steps (1, 3, 4), helpful on results, celebrating at the end', [x[0] for x in poses] == ['pointing', 'helpful', 'pointing', 'pointing', 'celebrating'], poses)
+    ok('M9b pointing Pip never covers the target and mirrors exactly when the target is on his other side', all(not x[2] and x[4] == x[3] for x in poses if x[0] == 'pointing'), poses)
+    pd2 = tp(1280); pd2.click('#tourYes'); d1 = tinfo(pd2); ok('M9c desktop step 1 pointing, not covering the input', d1[0] == 'pointing' and not d1[2] and d1[4] == d1[3], d1)
+    lay2 = []
+    for w in [320, 412, 880, 1280]:
+        g2 = tp(w, fresh=False); t0 = g2.evaluate("document.getElementById('inp').getBoundingClientRect().top+scrollY"); tt = []
+        for n in ['welcomeBack', 'idle', 'attentive', 'helpful', 'welcome']:
+            g2.evaluate(f"FlossFoxPip.show('{n}')"); g2.wait_for_timeout(40); tt.append(g2.evaluate("document.getElementById('inp').getBoundingClientRect().top+scrollY"))
+        if any(t != t0 for t in tt) or g2.evaluate('document.documentElement.scrollWidth') > w: lay2.append((w, t0, tt))
+        g2.context.close()
+    ok('M10 new poses: no layout shift or overflow 320-1280', not lay2, lay2)
+    rmn = tp(412, fresh=False, rm=True); rmn.evaluate("FlossFoxPip.show('idle')"); ok('M11 reduced motion on new poses', rmn.evaluate("getComputedStyle(document.getElementById('pipImg')).animationName") == 'none')
+    hdn = tp(412, fresh=False, init=f"localStorage.setItem('{PFX}.pip.v1','hidden')"); hdn.click('#askPipBtn'); ok('M12 Pip hidden: Ask Pip still shows its peeking Pip', hdn.locator('#askPip .apeek img').is_visible() and hdn.locator('#pipFig').is_hidden())
     # ---------- Phone layout ----------
     pm = page(412, True); pm.goto(B + '?sample'); pm.wait_for_timeout(200)
     ok('phone convert: no horizontal overflow', pm.evaluate('document.documentElement.scrollWidth') <= 412)
